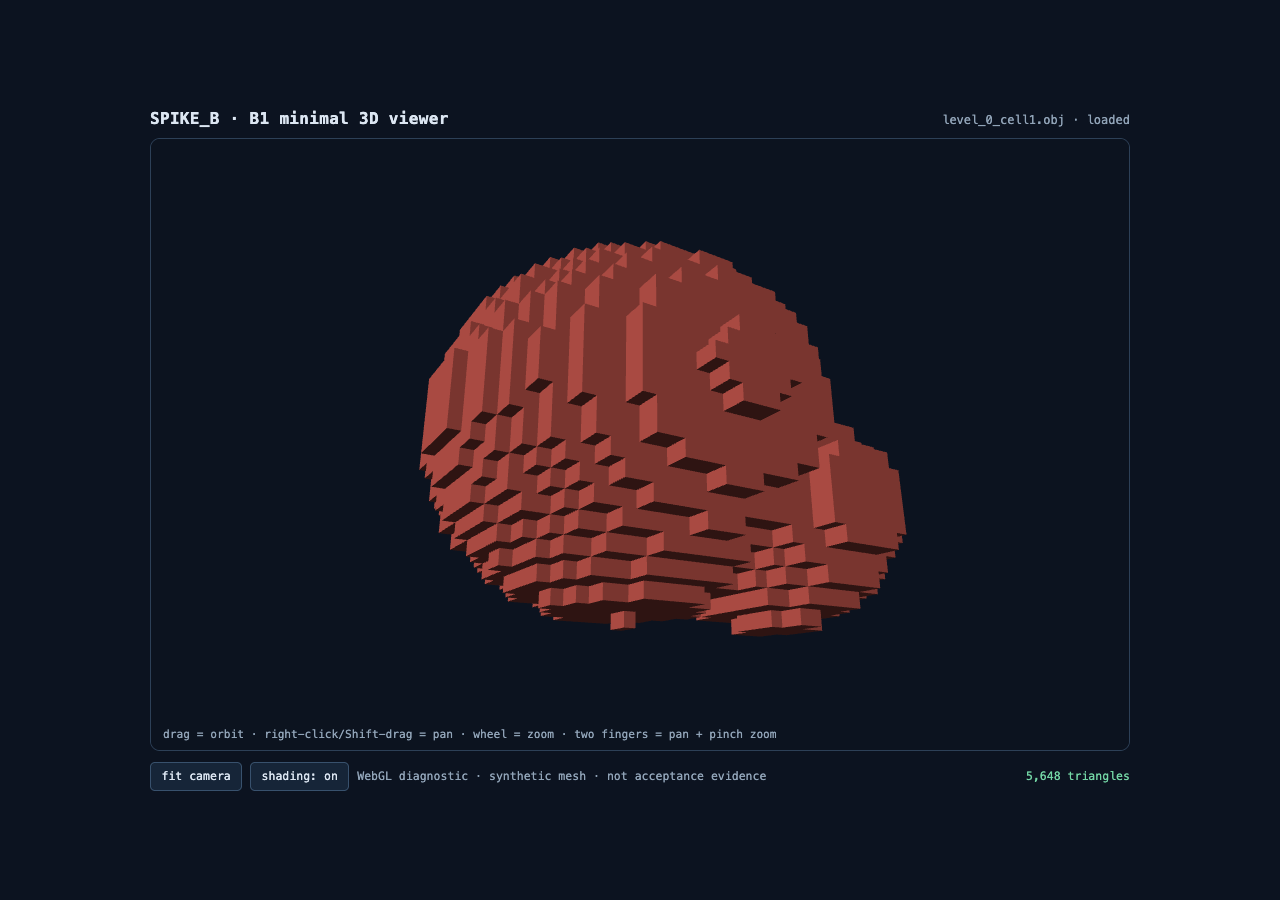
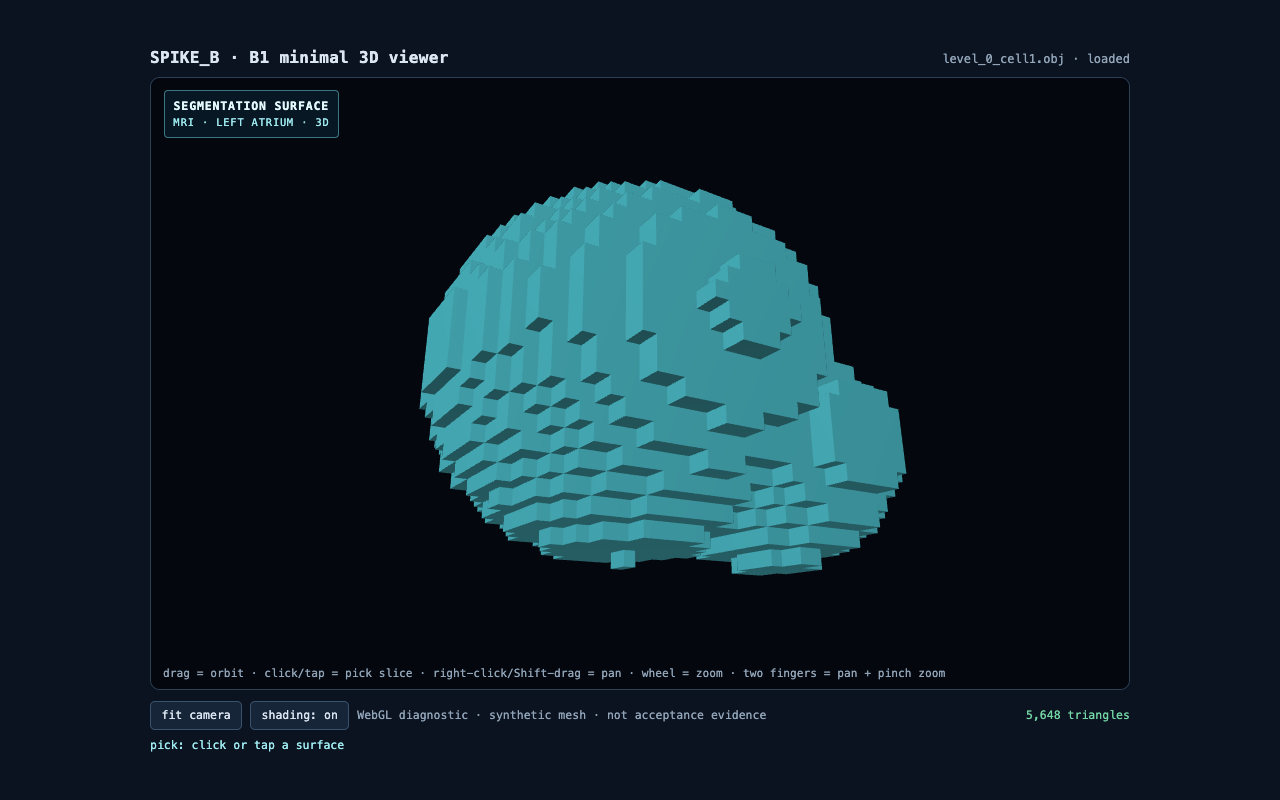
feat(spike-b): resolve picked mesh points to canonical slices

diff --git a/spikes/spike_b_3d/app/picking.js b/spikes/spike_b_3d/app/picking.js
@@ -1,0 +1,115 @@
+/*
+ * Dependency-free picking helpers for the B1 diagnostic viewer.
+ *
+ * Mesh vertices are in the canonical fixture's world coordinates.  A pointer
+ * ray is unprojected through the exact projection × model matrix used to draw
+ * the mesh, intersects the unindexed OBJ triangles, then maps back through
+ * DR-008a's world -> voxel floor rule.  Nothing here clamps an out-of-range
+ * hit into a plausible slice.
+ */
+
+const EPSILON = 1e-8;
+
+const subtract = (a, b) => [a[0] - b[0], a[1] - b[1], a[2] - b[2]];
+const addScaled = (a, b, scale) => [a[0] + b[0] * scale, a[1] + b[1] * scale, a[2] + b[2] * scale];
+const dot = (a, b) => a[0] * b[0] + a[1] * b[1] + a[2] * b[2];
+const cross = (a, b) => [a[1] * b[2] - a[2] * b[1], a[2] * b[0] - a[0] * b[2], a[0] * b[1] - a[1] * b[0]];
+const normalise = (v) => {
+  const length = Math.hypot(...v);
+  return length > EPSILON ? v.map((value) => value / length) : null;
+};
+
+export function rayMeshFirstHit(origin, direction, positions) {
+  const unit = normalise(direction);
+  if (!unit) return null;
+  let best = null;
+  for (let offset = 0; offset < positions.length; offset += 9) {
+    const v0 = [positions[offset], positions[offset + 1], positions[offset + 2]];
+    const v1 = [positions[offset + 3], positions[offset + 4], positions[offset + 5]];
+    const v2 = [positions[offset + 6], positions[offset + 7], positions[offset + 8]];
+    const edge1 = subtract(v1, v0);
+    const edge2 = subtract(v2, v0);
+    const p = cross(unit, edge2);
+    const determinant = dot(edge1, p);
+    if (Math.abs(determinant) < EPSILON) continue;
+    const inverse = 1 / determinant;
+    const fromV0 = subtract(origin, v0);
+    const u = dot(fromV0, p) * inverse;
+    if (u < -EPSILON || u > 1 + EPSILON) continue;
+    const q = cross(fromV0, edge1);
+    const v = dot(unit, q) * inverse;
+    if (v < -EPSILON || u + v > 1 + EPSILON) continue;
+    const distance = dot(edge2, q) * inverse;
+    if (distance <= EPSILON || (best && distance >= best.distance)) continue;
+    best = { point: addScaled(origin, unit, distance), distance, triangle: offset / 9 };
+  }
+  return best;
+}
+
+export function worldToVoxel(point, geometry) {
+  if (!point || !geometry) return null;
+  const { shape_xyz: shape, spacing_xyz_mm: spacing, origin_world_mm: origin } = geometry;
+  if (!Array.isArray(shape) || !Array.isArray(spacing) || !Array.isArray(origin)) return null;
+  const voxel = point.map((value, axis) => Math.floor((value - origin[axis]) / spacing[axis] + EPSILON));
+  if (voxel.some((value, axis) => value < 0 || value >= shape[axis])) return null;
+  return voxel;
+}
+
+export function worldToSlice(point, geometry) {
+  const voxel = worldToVoxel(point, geometry);
+  return voxel ? { voxel, sliceIndex: voxel[2] } : null;
+}
+
+export function multiplyMat4(out, a, b) {
+  for (let column = 0; column < 4; column += 1) {
+    for (let row = 0; row < 4; row += 1) {
+      out[column * 4 + row] = a[row] * b[column * 4]
+        + a[4 + row] * b[column * 4 + 1]
+        + a[8 + row] * b[column * 4 + 2]
+        + a[12 + row] * b[column * 4 + 3];
+    }
+  }
+  return out;
+}
+
+export function invertMat4(out, matrix) {
+  const m = matrix;
+  const inv = new Float32Array(16);
+  inv[0] = m[5] * m[10] * m[15] - m[5] * m[11] * m[14] - m[9] * m[6] * m[15] + m[9] * m[7] * m[14] + m[13] * m[6] * m[11] - m[13] * m[7] * m[10];
+  inv[4] = -m[4] * m[10] * m[15] + m[4] * m[11] * m[14] + m[8] * m[6] * m[15] - m[8] * m[7] * m[14] - m[12] * m[6] * m[11] + m[12] * m[7] * m[10];
+  inv[8] = m[4] * m[9] * m[15] - m[4] * m[11] * m[13] - m[8] * m[5] * m[15] + m[8] * m[7] * m[13] + m[12] * m[5] * m[11] - m[12] * m[7] * m[9];
+  inv[12] = -m[4] * m[9] * m[14] + m[4] * m[10] * m[13] + m[8] * m[5] * m[14] - m[8] * m[6] * m[13] - m[12] * m[5] * m[10] + m[12] * m[6] * m[9];
+  inv[1] = -m[1] * m[10] * m[15] + m[1] * m[11] * m[14] + m[9] * m[2] * m[15] - m[9] * m[3] * m[14] - m[13] * m[2] * m[11] + m[13] * m[3] * m[10];
+  inv[5] = m[0] * m[10] * m[15] - m[0] * m[11] * m[14] - m[8] * m[2] * m[15] + m[8] * m[3] * m[14] + m[12] * m[2] * m[11] - m[12] * m[3] * m[10];
+  inv[9] = -m[0] * m[9] * m[15] + m[0] * m[11] * m[13] + m[8] * m[1] * m[15] - m[8] * m[3] * m[13] - m[12] * m[1] * m[11] + m[12] * m[3] * m[9];
+  inv[13] = m[0] * m[9] * m[14] - m[0] * m[10] * m[13] - m[8] * m[1] * m[14] + m[8] * m[2] * m[13] + m[12] * m[1] * m[10] - m[12] * m[2] * m[9];
+  inv[2] = m[1] * m[6] * m[15] - m[1] * m[7] * m[14] - m[5] * m[2] * m[15] + m[5] * m[3] * m[14] + m[13] * m[2] * m[7] - m[13] * m[3] * m[6];
+  inv[6] = -m[0] * m[6] * m[15] + m[0] * m[7] * m[14] + m[4] * m[2] * m[15] - m[4] * m[3] * m[14] - m[12] * m[2] * m[7] + m[12] * m[3] * m[6];
+  inv[10] = m[0] * m[5] * m[15] - m[0] * m[7] * m[13] - m[4] * m[1] * m[15] + m[4] * m[3] * m[13] + m[12] * m[1] * m[7] - m[12] * m[3] * m[5];
+  inv[14] = -m[0] * m[5] * m[14] + m[0] * m[6] * m[13] + m[4] * m[1] * m[14] - m[4] * m[2] * m[13] - m[12] * m[1] * m[6] + m[12] * m[2] * m[5];
+  inv[3] = -m[1] * m[6] * m[11] + m[1] * m[7] * m[10] + m[5] * m[2] * m[11] - m[5] * m[3] * m[10] - m[9] * m[2] * m[7] + m[9] * m[3] * m[6];
+  inv[7] = m[0] * m[6] * m[11] - m[0] * m[7] * m[10] - m[4] * m[2] * m[11] + m[4] * m[3] * m[10] + m[8] * m[2] * m[7] - m[8] * m[3] * m[6];
+  inv[11] = -m[0] * m[5] * m[11] + m[0] * m[7] * m[9] + m[4] * m[1] * m[11] - m[4] * m[3] * m[9] - m[8] * m[1] * m[7] + m[8] * m[3] * m[5];
+  inv[15] = m[0] * m[5] * m[10] - m[0] * m[6] * m[9] - m[4] * m[1] * m[10] + m[4] * m[2] * m[9] + m[8] * m[1] * m[6] - m[8] * m[2] * m[5];
+  const determinant = m[0] * inv[0] + m[1] * inv[4] + m[2] * inv[8] + m[3] * inv[12];
+  if (Math.abs(determinant) < EPSILON) return null;
+  for (let i = 0; i < 16; i += 1) out[i] = inv[i] / determinant;
+  return out;
+}
+
+function transformPoint(matrix, point) {
+  const x = point[0], y = point[1], z = point[2], w = point[3];
+  const result = [
+    matrix[0] * x + matrix[4] * y + matrix[8] * z + matrix[12] * w,
+    matrix[1] * x + matrix[5] * y + matrix[9] * z + matrix[13] * w,
+    matrix[2] * x + matrix[6] * y + matrix[10] * z + matrix[14] * w,
+    matrix[3] * x + matrix[7] * y + matrix[11] * z + matrix[15] * w,
+  ];
+  return result[3] ? result.slice(0, 3).map((value) => value / result[3]) : null;
+}
+
+export function screenRayFromNdc(ndcX, ndcY, inverseProjectionModel) {
+  const near = transformPoint(inverseProjectionModel, [ndcX, ndcY, -1, 1]);
+  const far = transformPoint(inverseProjectionModel, [ndcX, ndcY, 1, 1]);
+  return near && far ? { origin: near, direction: subtract(far, near) } : null;
+}

diff --git a/spikes/spike_b_3d/app/viewer.js b/spikes/spike_b_3d/app/viewer.js
@@ -8,12 +8,14 @@
  */
 
 import { parseObj } from './obj.js';
+import { invertMat4, multiplyMat4, rayMeshFirstHit, screenRayFromNdc, worldToSlice } from './picking.js';
 
 const canvas = document.querySelector('#gl');
 const status = document.querySelector('#status');
 const trianglesLabel = document.querySelector('#triangles');
 const fitButton = document.querySelector('#fit');
 const shadeButton = document.querySelector('#shade');
+const pickLabel = document.querySelector('#pick');
 
 const VERTEX_SHADER = `#version 300 es
 in vec3 aPosition;
@@ -121,7 +123,7 @@ function setup(gl, mesh) {
   gl.enableVertexAttribArray(aNormal);
   gl.vertexAttribPointer(aNormal, 3, gl.FLOAT, false, 0, 0);
   gl.bindVertexArray(null);
-  return { program, vao, count: mesh.positions.length / 3,
+  return { program, vao, count: mesh.positions.length / 3, positions: mesh.positions,
     projection: gl.getUniformLocation(program, 'uProjection'),
     model: gl.getUniformLocation(program, 'uModel'),
     light: gl.getUniformLocation(program, 'uLight'),
@@ -146,6 +148,9 @@ let shading = true;
 let pointers = new Map();
 let dragMode = null;
 let pinchState = null;
+let geometry = null;
+let tapCandidate = false;
+let interactionMoved = false;
 
 function panBy(dx, dy) {
   // Move in screen coordinates. Scaling by camera distance keeps panning
@@ -186,17 +191,50 @@ function draw() {
   requestAnimationFrame(draw);
 }
 
+function currentCameraMatrices() {
+  const projection = perspective(new Float32Array(16), Math.PI / 4, canvas.width / canvas.height, 0.01, 100);
+  const model = modelMatrix(new Float32Array(16), yaw, pitch, distance, scale, center, pan);
+  return { projection, model };
+}
+
+function pickSurface(event) {
+  if (!renderer || !geometry) {
+    pickLabel.textContent = 'pick unavailable: canonical geometry not loaded';
+    return;
+  }
+  const rect = canvas.getBoundingClientRect();
+  const ndcX = ((event.clientX - rect.left) / rect.width) * 2 - 1;
+  const ndcY = 1 - ((event.clientY - rect.top) / rect.height) * 2;
+  const { projection, model } = currentCameraMatrices();
+  const projectionModel = multiplyMat4(new Float32Array(16), projection, model);
+  const inverse = invertMat4(new Float32Array(16), projectionModel);
+  const ray = inverse && screenRayFromNdc(ndcX, ndcY, inverse);
+  const hit = ray && rayMeshFirstHit(ray.origin, ray.direction, renderer.positions);
+  const resolved = worldToSlice(hit?.point, geometry);
+  if (!hit) {
+    pickLabel.textContent = 'pick: no surface hit';
+  } else if (!resolved) {
+    pickLabel.textContent = 'pick: surface is outside canonical volume';
+  } else {
+    const [x, y, z] = resolved.voxel;
+    pickLabel.textContent = `pick: voxel ${x}, ${y}, ${z} · slice ${resolved.sliceIndex}`;
+  }
+}
+
 function setZoom(next) {
   distance = Math.min(8, Math.max(1.05, next));
 }
 
 canvas.addEventListener('pointerdown', (event) => {
   canvas.setPointerCapture(event.pointerId);
-  pointers.set(event.pointerId, { x: event.clientX, y: event.clientY });
+  pointers.set(event.pointerId, { x: event.clientX, y: event.clientY, startX: event.clientX, startY: event.clientY });
   if (pointers.size === 1) {
     dragMode = event.button === 2 || event.shiftKey ? 'pan' : 'orbit';
+    tapCandidate = event.button === 0 && !event.shiftKey;
+    interactionMoved = false;
   }
   if (pointers.size === 2) {
+    tapCandidate = false;
     const [a, b] = [...pointers.values()];
     pinchState = {
       distance: Math.hypot(a.x - b.x, a.y - b.y),
@@ -208,7 +246,8 @@ canvas.addEventListener('pointerdown', (event) => {
 canvas.addEventListener('pointermove', (event) => {
   if (!pointers.has(event.pointerId)) return;
   const previous = pointers.get(event.pointerId);
-  pointers.set(event.pointerId, { x: event.clientX, y: event.clientY });
+  if (Math.hypot(event.clientX - previous.startX, event.clientY - previous.startY) > 5) interactionMoved = true;
+  pointers.set(event.pointerId, { ...previous, x: event.clientX, y: event.clientY });
   if (pointers.size === 2) {
     const [a, b] = [...pointers.values()];
     const next = Math.hypot(a.x - b.x, a.y - b.y);
@@ -226,9 +265,15 @@ canvas.addEventListener('pointermove', (event) => {
   }
 });
 function releasePointer(event) {
+  const shouldPick = event.type === 'pointerup' && pointers.size === 1 && dragMode === 'orbit'
+    && tapCandidate && !interactionMoved;
+  if (shouldPick) pickSurface(event);
   pointers.delete(event.pointerId);
   if (pointers.size < 2) pinchState = null;
-  if (pointers.size === 0) dragMode = null;
+  if (pointers.size === 0) {
+    dragMode = null;
+    tapCandidate = false;
+  }
 }
 canvas.addEventListener('pointerup', releasePointer);
 canvas.addEventListener('pointercancel', releasePointer);
@@ -243,13 +288,23 @@ shadeButton.addEventListener('click', () => {
   shadeButton.textContent = `shading: ${shading ? 'on' : 'off'}`;
 });
 
-fetch('../mesh/out/level_0_cell1.obj')
-  .then((response) => {
+Promise.all([
+  fetch('../mesh/out/level_0_cell1.obj').then((response) => {
     if (!response.ok) throw new Error(`HTTP ${response.status} — run mesh/build_mesh.py first`);
     return response.text();
-  })
-  .then((text) => {
+  }),
+  fetch('../mesh/out/mesh_levels.json').then((response) => {
+    if (!response.ok) throw new Error(`HTTP ${response.status} — run mesh/build_mesh.py first`);
+    return response.json();
+  }),
+])
+  .then(([text, summary]) => {
     const mesh = parseObj(text);
+    geometry = {
+      shape_xyz: summary.shape_xyz,
+      spacing_xyz_mm: summary.spacing_xyz_mm,
+      origin_world_mm: summary.origin_world_mm,
+    };
     renderer = setup(gl, mesh);
     // Centre/normalise from the loaded OBJ so the same camera works for any
     // spacing/origin in the canonical fixture.

diff --git a/spikes/spike_b_3d/app/index.html b/spikes/spike_b_3d/app/index.html
@@ -18,6 +18,7 @@
       .clinical-label b { display: block; color: #e3fbff; font-size: .72rem; }
       .hint { position: absolute; left: .75rem; bottom: .6rem; color: #91a4b8; font-size: .7rem; pointer-events: none; }
       .controls { display: flex; flex-wrap: wrap; gap: .5rem; align-items: center; margin-top: .65rem; color: #91a4b8; font-size: .72rem; }
+      #pick { flex-basis: 100%; min-height: 1em; color: #9eeaf0; }
       button { border: 1px solid #38516d; border-radius: 5px; background: #162538; color: #dce6f2; padding: .4rem .65rem; font: inherit; cursor: pointer; }
       button:hover { background: #203751; }
       .badge { margin-left: auto; color: #73d6a5; }
@@ -28,14 +29,15 @@
       <header><h1>SPIKE_B · B1 minimal 3D viewer</h1><div id="status">loading level_0_cell1.obj…</div></header>
       <div class="stage">
         <canvas id="gl" aria-label="Interactive 3D mesh"></canvas>
-        <div class="clinical-label"><b>SEGMENTATION SURFACE</b>MRI · LEFT ATRIUM · 3D</div>
-        <div class="hint">drag = orbit · right-click/Shift-drag = pan · wheel = zoom · two fingers = pan + pinch zoom</div>
+        <div class="clinical-label"><b>SEGMENTATION SURFACE</b>CANONICAL FIXTURE · 3D</div>
+        <div class="hint">drag = orbit · click/tap = pick slice · right-click/Shift-drag = pan · wheel = zoom · two fingers = pan + pinch zoom</div>
       </div>
       <div class="controls">
         <button id="fit" type="button">fit camera</button>
         <button id="shade" type="button">shading: on</button>
         <span>WebGL diagnostic · synthetic mesh · not acceptance evidence</span>
         <span class="badge" id="triangles">— triangles</span>
+        <span id="pick">pick: click or tap a surface</span>
       </div>
     </main>
     <script type="module" src="./viewer.js"></script>

diff --git a/spikes/spike_b_3d/app/README.md b/spikes/spike_b_3d/app/README.md
@@ -19,8 +19,11 @@ Open <http://127.0.0.1:8765/app/> in a WebGL2-capable browser. The OBJ files
 are intentionally ignored by git; the first command regenerates
 `mesh/out/level_0_cell1.obj` from the canonical geometry fixture.
 
-Drag on the canvas to orbit; right-click or hold Shift while dragging to pan.
+Drag on the canvas to orbit; click or tap a surface to resolve its canonical
+voxel and Z slice; right-click or hold Shift while dragging to pan.
 On touch, move two fingers together to pan and change their separation to zoom.
 Use the wheel to zoom and **fit camera** to restore the demo view. The displayed mesh is synthetic
-and diagnostic only; B10/B11 and real-mesh B3/B4 evidence still require the
-declared Galaxy A17 run.
+and diagnostic only. `node app/test_picking.mjs` casts the 13 canonical fixture
+rays into this level-0 mesh and requires the exact expected slice for each.
+That verifies B3/B4's desktop fixture path only; B5/B6 on a real mesh and
+B10/B11 still require the declared Galaxy A17 run.

diff --git a/tests/fixtures/geometry/FORMAT.md b/tests/fixtures/geometry/FORMAT.md
@@ -53,7 +53,11 @@ must not share generator logic with the implementation under test.
 
 ## Picking rays and B14
 
-The fixture contains 13 deterministic picking rays. Their
+The fixture contains 13 deterministic picking rays. Each ray carries an
+`expected_slice_index` for the canonical level-0 voxel-face mesh; an app test
+must resolve that exact slice without tolerance. The expected value was derived
+from the fixture's synthetic mask by an independent voxel ray march, rather
+than by comparing the level-0 mesh to itself. Their
 picking_rays[].group labels are the contractual B14 cohorts:
 interior and surface_tangent. Evidence must report those cohorts
 separately.
@@ -69,5 +73,4 @@ The conformance run is a reusable fixture check, not device evidence. A passing
 run proves only that an implementation follows this coordinate contract. Real
 mesh picking, FPS, stall time and memory still require the physical Galaxy A17
 measurement procedure in management/spikes/SPIKE_B_3D/TASK.md.
-
 
